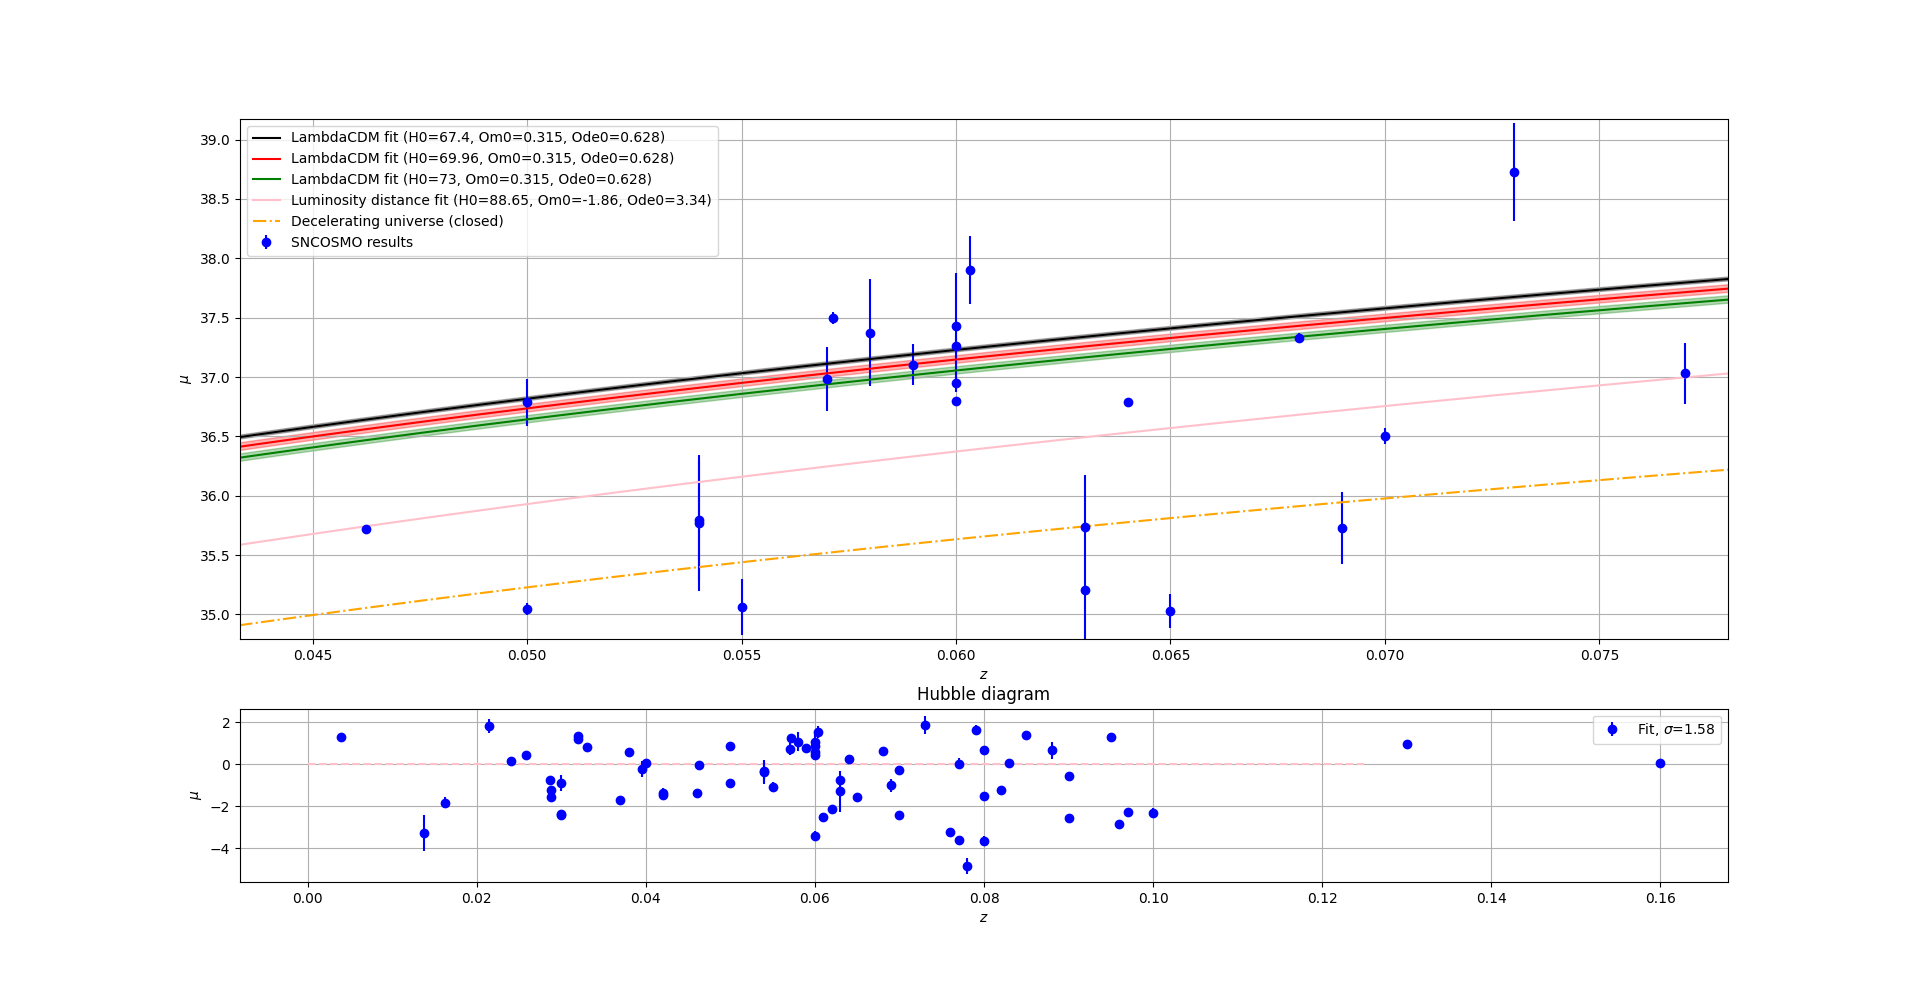
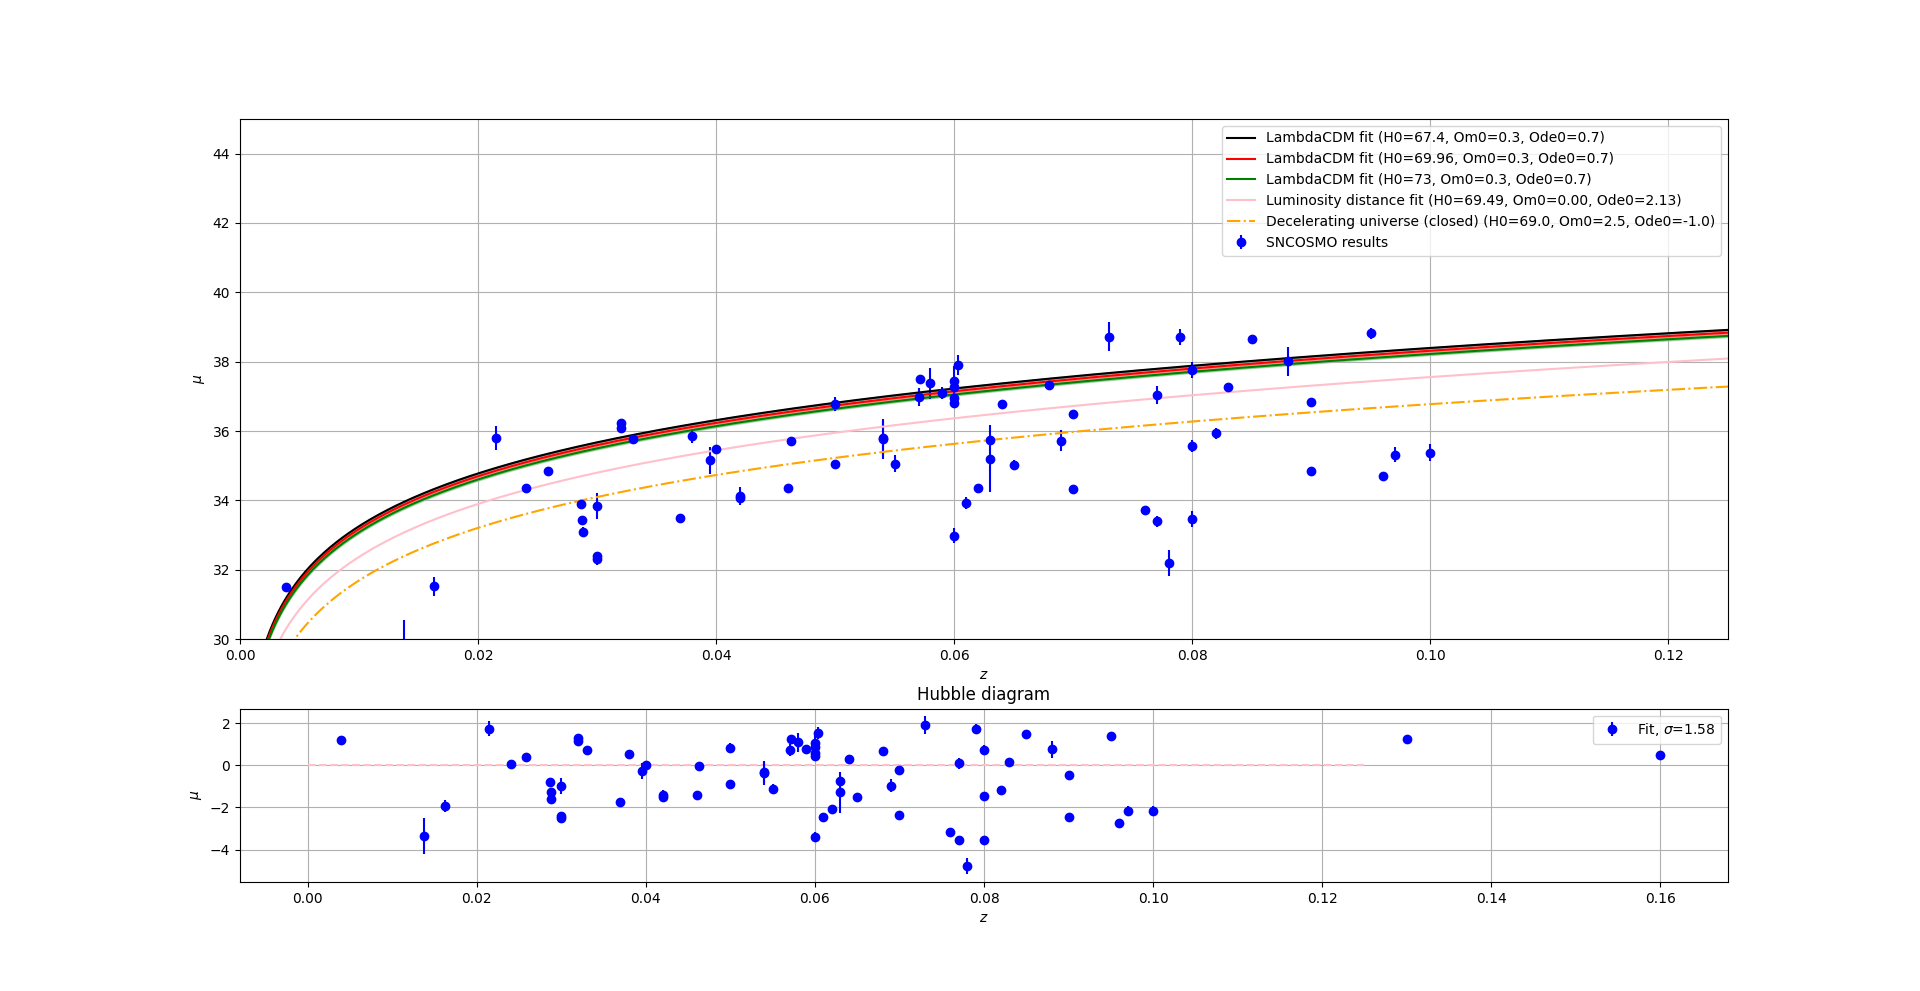
diagram for work

diff --git a/cosmo_analysis/create_hubble_diagram.py b/cosmo_analysis/create_hubble_diagram.py
@@ -151,8 +151,8 @@ def model(z, H0, Omega_m, Omega_L):
 
 p0 = [70, 0.3, 0.7] # guess
 bounds = ([0.0, 0.0, 0.0],[1000, 1000, 1000])# bounds
-params, cov = curve_fit(model, redshifts, dms, p0=p0, sigma=dm_errs)
-# params, cov = curve_fit(model, redshifts, dms, p0=p0, sigma=dm_errs, bounds=bounds)
+# params, cov = curve_fit(model, redshifts, dms, p0=p0, sigma=dm_errs)
+params, cov = curve_fit(model, redshifts, dms, p0=p0, sigma=dm_errs, bounds=bounds)
 H0_fit, Omega_m_fit, Omega_L_fit = params
 H0_fit_err, Omega_m_fit_err, Omega_L_fit_err = np.sqrt(np.diag(cov))
 mu_fit = model(z, H0_fit, Omega_m_fit, Omega_L_fit) # generate fit curve (equivalent to distmod)
@@ -196,7 +196,7 @@ ax[0].plot(z, mu_fit, label=f'Luminosity distance fit (H0={H0_fit:.2f}, Om0={Ome
 
 # alternative universes
 # ax[0].plot(z, distmod_accelerating, color='orange', label='Accelerating universe', linestyle='-.') # not needed (LambdaCDM already represents this)
-ax[0].plot(z, distmod_decelerating_closed, color='orange', label='Decelerating universe (closed)', linestyle='-.')
+ax[0].plot(z, distmod_decelerating_closed, color='orange', label=f'Decelerating universe (closed) (H0={69.0}, Om0={2.5}, Ode0={-1.0})', linestyle='-.')
 # ax[0].plot(z, distmod_decelerating_open, color='lightblue', label='Decelerating universe (open)', linestyle='-.') # does not appear in plot
 
 
